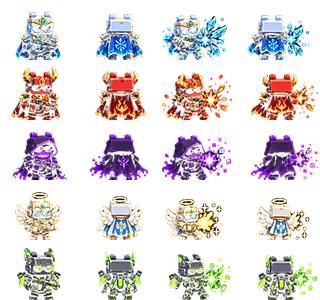
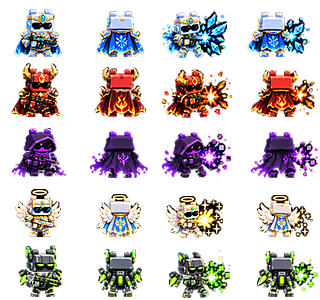
a

diff --git a/src/ui/VsIntro.jsx b/src/ui/VsIntro.jsx
@@ -29,16 +29,23 @@ const SHOW_MS = 3000;
 // [stated] **스킨을 입었으면 VS 화면에도 입혀야 한다.**
 // 자리·크기는 그대로 두고 **그림만** 스킨 시트에서 가져온다.
 // 스킨 시트는 줄이 스킨 번호이고, 대기 자세 칸이 종목마다 다르다
+// [stated] **기본과 스킨 크기가 달랐다** — 배율을 `92 / 칸 높이` 로 잡았는데
+// 스킨 칸이 더 높아서 캐릭터가 작아졌다(총격 92 → 73.6, 칼전 80.8 → 61.8).
+// → **몸통 높이(`bh`)를 기준**으로 잡는다. 시트에서 잰 값:
+//   총격 기본 48 / 스킨 48, 칼전 기본 87 / 스킨 88, 축구 기본 45 / 스킨 48
+// `tgt` 는 기본이 화면에서 차지하던 몸통 크기 — 여기에 맞춘다
 const SKIN_SHEET = {
-  soccer: { src: 'assets/soccer-skins.webp', cw: 80,  ch: 52,  cols: 13, rows: 5, still: 0, ax: 24, aw: 32 },
-  melee:  { src: 'assets/melee-skins.webp',  cw: 270, ch: 131, cols: 8,  rows: 5, still: 0, ax: 84, aw: 102 },
-  gun:    { src: 'assets/gun-skins.webp',    cw: 80,  ch: 60,  cols: 4,  rows: 5, still: 0, ax: 19, aw: 42 }
+  soccer: { src: 'assets/soccer-skins.webp', cw: 80,  ch: 52,  cols: 13, rows: 5, still: 0, ax: 23, aw: 34, bh: 48 },
+  melee:  { src: 'assets/melee-skins.webp',  cw: 270, ch: 131, cols: 8,  rows: 5, still: 0, ax: 92, aw: 97, bh: 88 },
+  gun:    { src: 'assets/gun-skins.webp',    cw: 80,  ch: 60,  cols: 4,  rows: 5, still: 0, ax: 15, aw: 46, bh: 48 }
 };
+// 기본 캐릭터가 화면에서 차지하던 몸통 크기 (92 x 몸통 / 칸높이)
+const TGT = { gun: 92, melee: 80.8, soccer: 79.6 };
 
 const SHEET = {
-  soccer: { src: 'assets/soccer-chars.webp', cw: 80,  ch: 52, cols: 13, rows: 6, col: () => 0,    row: c => c, ax: 24, aw: 32 },
-  melee:  { src: 'assets/melee.webp',        cw: 242, ch: 99, cols: 8,  rows: 6, col: () => 0,    row: c => c, ax: 70, aw: 102 },
-  gun:    { src: 'assets/characters.png',    cw: 42,  ch: 48, cols: 24, rows: 1, col: c => c * 2, row: () => 0, ax: 0,  aw: 42 }
+  soccer: { src: 'assets/soccer-chars.webp', cw: 80,  ch: 52, cols: 13, rows: 6, col: () => 0,    row: c => c, ax: 24, aw: 32, bh: 45 },
+  melee:  { src: 'assets/melee.webp',        cw: 242, ch: 99, cols: 8,  rows: 6, col: () => 0,    row: c => c, ax: 70, aw: 102, bh: 87 },
+  gun:    { src: 'assets/characters.png',    cw: 42,  ch: 48, cols: 24, rows: 1, col: c => c * 2, row: () => 0, ax: 0,  aw: 42, bh: 48 }
 };
 
 function Portrait({ kind, color, zoom = 1, skin = 0 }){
@@ -49,7 +56,7 @@ function Portrait({ kind, color, zoom = 1, skin = 0 }){
   const ci = Math.max(0, color | 0);
   const cx = ss ? ss.still : sh.col(ci), cy = ss ? sk - 1 : sh.row(ci);
   // 칸 높이를 이 크기에 맞춘다. **가로·세로 배율을 따로 주면 안 된다** — 찌그러진다
-  const k = 92 * zoom / sh.ch;
+  const k = (TGT[kind] || TGT.gun) * zoom / sh.bh;
   return (
     <span className="vs-por" style={{
       // **그림이 있는 만큼만** 자리를 차지한다 (칸 전체가 아니라)
